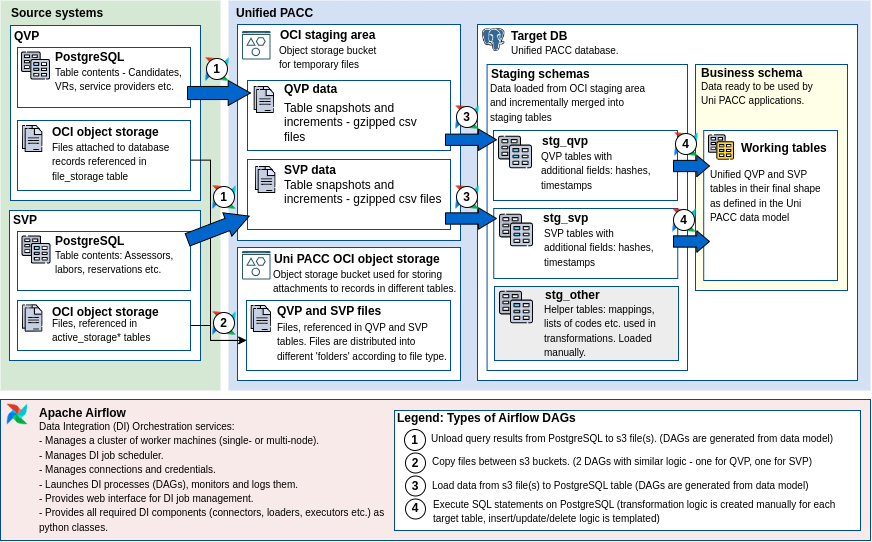
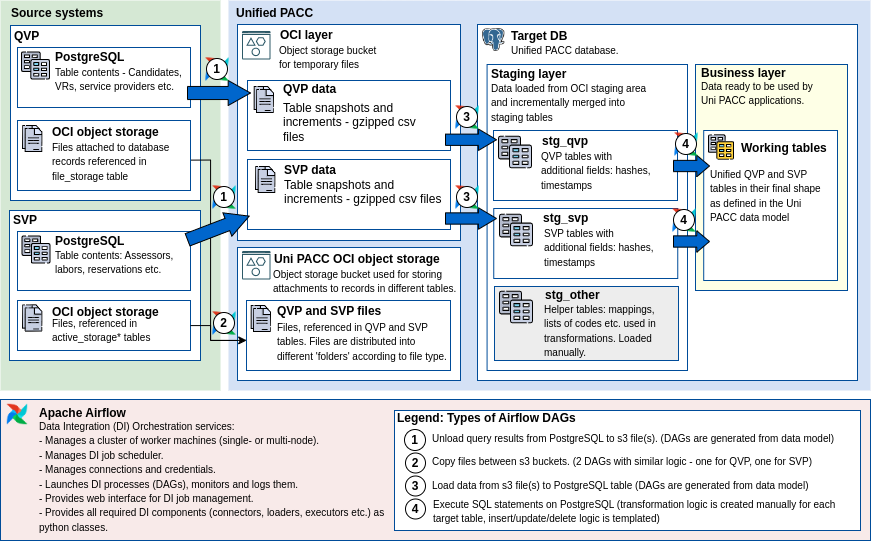
Dwork

diff --git a/migration/readme.md b/migration/readme.md
@@ -23,30 +23,77 @@ Target storage:
 
 Data are going to be moved in two phases:
 
-1. Bulk migration - all data from all tables, all files.
+1. Bulk migration - all data from all tables, all files are moved to the target storages.
 2. Incremental migration - periodical extraction of new/changed data
    from source tables and from OCI object storage.
 
-The approach outlined above allows to make the transition
-Unified PACC smooth, provides room for error during every step of migration,
-reduces the load on source databases.
+The approach outlined above allows to make the transition smooth,
+provides room for error during every step of migration and
+reduces load on source databases.
 
 ### Cutover Plan ###
 
 After successful bulk migration and several incremental migrations, 
-a set of test queries are run on source and target systems to ensure that
-all data have been copied, certain key indicators match on the source and the target.
+a set of test queries are run on source and target databases to ensure that
+all data have been copied, certain key indicators match on the source and on the target.
 Uni PACC application is tested on prod environment with several test user accounts
-to make sure there are no errors in foreign keys, semantics of the data model is not
-damaged after migration, all files are in place.
+to make sure there are no errors in relationships between tables, semantics of the data model is not
+damaged during migration, all files are in place.
 
-When there are no more errors, the source applications are switched off,
-the last incremental load is executed and the target system goes into live production.
+When there are no more errors, source applications go offline,
+the last incremental load is executed and the target system goes online.
 
 ### Data Layers ###
 
+These are the steps to move data from source DBs to target DB:
+
+1. Extract changed records, move them to OCI object storage in csv files.
+2. Read a file from OCI object storage, load it into a temporary table in the 'staging area'
+   of the target database.
+3. Read temporary table, merge it into the permanent table in the 'staging area'.
+3. Select and transform data from tables in the staging area in the target database and
+   merge results of the transformation into the final tables.
+
+After each step data ends up in one of three 'data layers':
+
+1. OCI Staging layer (OCI) - source data converted to gzipped csv files.
+2. Target DB staging layer (STG)  - copies of data from source systems.
+3. Business layer (BL) - data transformed to Uni PACC data model.
+
+### Independent DI Processes ###
+
+One 'STG' DI process loads a cnunk of changed records from one source table
+into one table in the STG layer.
+
+One 'BL' DI process loads changed records (or fully reloads)
+one table in the BL.
+
+Processes can be launched independently of each other.
+
+Processes can be launched several times without any negative consequences.
+
+Processes can be chained together to form a 'pipeline' that loads
+several tables at once. Each process of the pipeline still can be launched
+independently without any problem.
+
 Tools
 ------
+
+The approach described above can be implemented using different tools.
+However for the sake of clarity I am describing in detail
+how it can be implemented using Apache Airflow as the core integration machine.
+
+The choice of Airflow was determined by the following factors:
+
+1. Airflow is a mature professional level DI system well-proven in the industry;
+2. Airflow DI process or 'DAG' is defined as a simple python file. Usually
+   it is trivial but can be as complex as the developer wants it to.
+3. With Airflow there are many ways to generate hundreds of uniform DAGs using simple
+   JSON or YAML config files.
+4. Airflow integrates smoothly with Git and CI/CD processes.
+5. All the necessary Airflow libraries (a.k.a Providers), that contain
+   DB connectors, S3 readers/writers etc. are available as open source.
+6. Any custom extensions to Airflow are easy to implement in python.
 
 Data Integration Architecture
 ------------------------------
